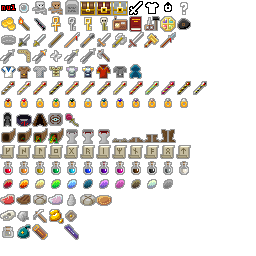
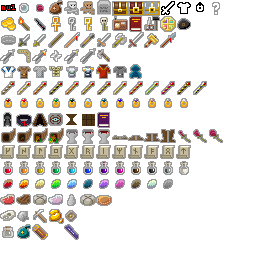
v0.2.3: WIP/placeholder sprites for new items

diff --git a/src/com/shatteredpixel/shatteredpixeldungeon/sprites/ItemSpriteSheet.java b/src/com/shatteredpixel/shatteredpixeldungeon/sprites/ItemSpriteSheet.java
@@ -41,18 +41,20 @@ public class ItemSpriteSheet {
     //null warning occupies space 0, should only show up if there's a bug.
     public static final int NULLWARN    = ROW1+0;
     public static final int DEWDROP	    = ROW1+1;
+    public static final int PETAL	    = ROW1+2;
+    public static final int SANDBAG     = ROW1+3;
     // Heaps (containers)
-    public static final int BONES			= ROW1+2;
-    public static final int REMAINS         = ROW1+3;
-    public static final int TOMB			= ROW1+4;
-    public static final int CHEST			= ROW1+5;
-    public static final int LOCKED_CHEST	= ROW1+6;
-    public static final int CRYSTAL_CHEST	= ROW1+7;
+    public static final int BONES			= ROW1+4;
+    public static final int REMAINS         = ROW1+5;
+    public static final int TOMB			= ROW1+6;
+    public static final int CHEST			= ROW1+7;
+    public static final int LOCKED_CHEST	= ROW1+8;
+    public static final int CRYSTAL_CHEST	= ROW1+9;
     // Placeholders
-    public static final int WEAPON	= ROW1+8;
-    public static final int ARMOR	= ROW1+9;
-    public static final int RING	= ROW1+10;
-    public static final int SMTH	= ROW1+11;
+    public static final int WEAPON	= ROW1+10;
+    public static final int ARMOR	= ROW1+11;
+    public static final int RING	= ROW1+12;
+    public static final int SMTH	= ROW1+13;
 
     //Row Two: Miscellaneous single use items
     public static final int GOLD	= ROW2+0;
@@ -137,7 +139,9 @@ public class ItemSpriteSheet {
     public static final int ARTIFACT_ARMBAND    = ROW8+1;
     public static final int ARTIFACT_CAPE       = ROW8+2;
     public static final int ARTIFACT_TALISMAN   = ROW8+3;
-    public static final int ARTIFACT_ROSE       = ROW8+4;
+    public static final int ARTIFACT_HOURGLASS  = ROW8+4;
+    public static final int ARTIFACT_TOOLKIT    = ROW8+5;
+
 
     //Row Nine: Artifacts with Dynamic Images
     public static final int ARTIFACT_HORN1      = ROW9+0;
@@ -151,6 +155,9 @@ public class ItemSpriteSheet {
     public static final int ARTIFACT_SHOES      = ROW9+8;
     public static final int ARTIFACT_BOOTS      = ROW9+9;
     public static final int ARTIFACT_GREAVES    = ROW9+10;
+    public static final int ARTIFACT_ROSE1      = ROW9+11;
+    public static final int ARTIFACT_ROSE2      = ROW9+12;
+    public static final int ARTIFACT_ROSE3      = ROW9+13;
 
     //Row Ten: Scrolls
     public static final int SCROLL_KAUNAN	= ROW10+0;

diff --git a/src/com/shatteredpixel/shatteredpixeldungeon/items/artifacts/TimekeepersHourglass.java b/src/com/shatteredpixel/shatteredpixeldungeon/items/artifacts/TimekeepersHourglass.java
@@ -3,6 +3,7 @@ package com.shatteredpixel.shatteredpixeldungeon.items.artifacts;
 import com.shatteredpixel.shatteredpixeldungeon.Assets;
 import com.shatteredpixel.shatteredpixeldungeon.actors.hero.Hero;
 import com.shatteredpixel.shatteredpixeldungeon.items.Item;
+import com.shatteredpixel.shatteredpixeldungeon.sprites.ItemSpriteSheet;
 import com.shatteredpixel.shatteredpixeldungeon.ui.QuickSlot;
 import com.shatteredpixel.shatteredpixeldungeon.utils.GLog;
 import com.watabou.noosa.audio.Sample;
@@ -18,7 +19,7 @@ public class TimekeepersHourglass extends Artifact {
 
     {
         name = "timekeeper's hourglass";
-        image = 0;
+        image = ItemSpriteSheet.ARTIFACT_HOURGLASS;
 
         level = 0;
         levelCap = 5;
@@ -123,7 +124,7 @@ public class TimekeepersHourglass extends Artifact {
 
         {
             name = "bag of magic sand";
-            image = 0;
+            image = ItemSpriteSheet.SANDBAG;
         }
 
         @Override
